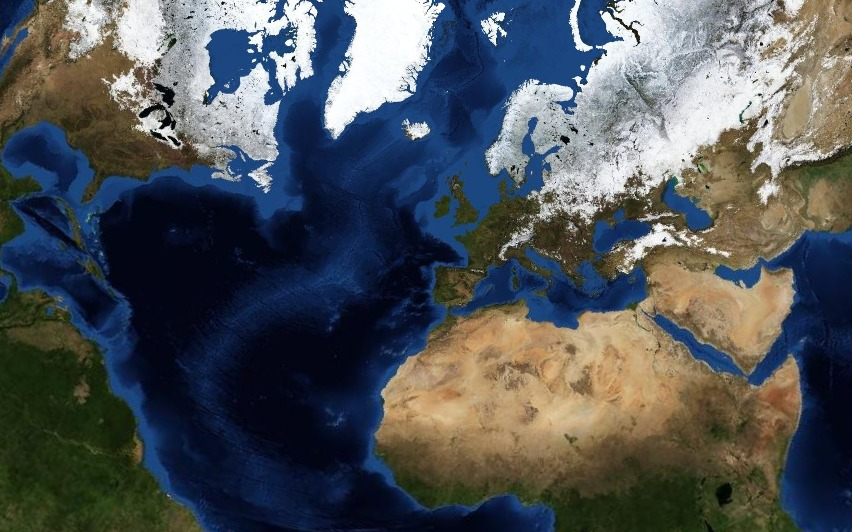
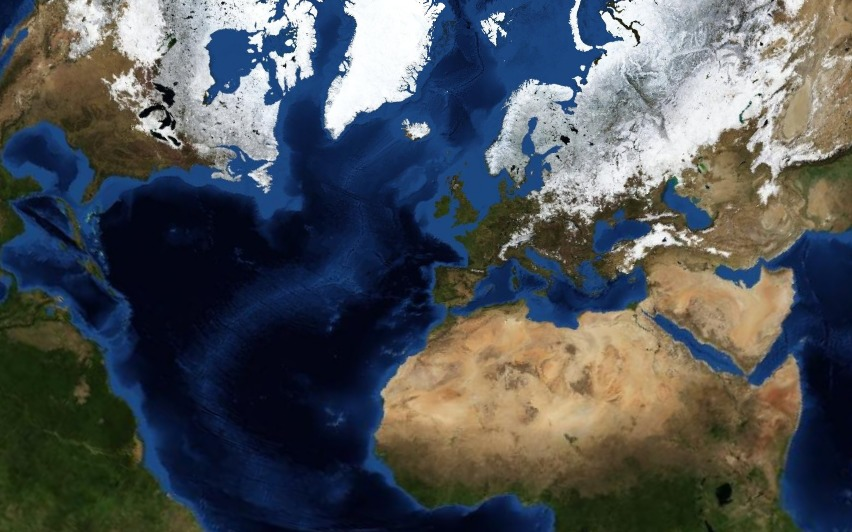
recreate the foldbeam-render tool using the new system
The rendering is now a lot faster and the samples look broadly the same(!)

diff --git a/src/foldbeam/tool/render.py b/src/foldbeam/tool/render.py
@@ -1,9 +1,15 @@
 import argparse
-import TileStache
-from foldbeam import core, graph, raster
+import logging
+import sys
+
+import cairo
+import httplib2
 from osgeo import gdal
 from osgeo.osr import SpatialReference
-import sys
+
+from foldbeam.renderer import TileFetcher, set_geo_transform
+
+logging.basicConfig(level=logging.WARNING)
 
 parser = argparse.ArgumentParser(description='Generate maps of the world from OpenStreetMaps data')
 parser.add_argument('-o', '--output', metavar='FILENAME', type=str, nargs='?',
@@ -39,53 +45,56 @@ def main(argv=None):
     run(parser.parse_args(argv))
 
 def run(args):
-    if args.cache_dir is None:
-        cache_config = { 'name': 'Test' }
-    else:
-        cache_config = { 'name': 'Disk', 'path': args.cache_dir }
-
-    config = TileStache.Config.buildConfiguration({
-        'cache': cache_config,
-        'layers': {
-            'osm': {
-                'provider': {
-                    'name': 'proxy', 
-                    'url': 'http://otile1.mqcdn.com/tiles/1.0.0/osm/{Z}/{X}/{Y}.png',
-                },
-            },
-            'aerial': {
-                'provider': {
-                    'name': 'proxy', 
-                    'url': 'http://oatile1.mqcdn.com/naip/{Z}/{X}/{Y}.jpg',
-                },
-            },
-        },
-    })
-
-    envelope_srs = SpatialReference()
+    srs = SpatialReference()
     if args.epsg is not None:
-        envelope_srs.ImportFromEPSG(args.epsg)
+        srs.ImportFromEPSG(args.epsg)
     elif args.proj is not None:
-        envelope_srs.ImportFromProj4(args.proj)
+        srs.ImportFromProj4(args.proj)
     else:
-        envelope_srs.ImportFromEPSG(4326) # default to WGS84 lat/lng
-    envelope = core.Envelope(args.left*args.units, args.right*args.units, args.top*args.units, args.bottom*args.units, envelope_srs)
+        srs.ImportFromEPSG(4326) # default to WGS84 lat/lng
+
+    left, right, top, bottom = (
+        args.left*args.units,
+        args.right*args.units,
+        args.top*args.units,
+        args.bottom*args.units
+    )
 
     if args.width is None and args.height is None:
         print('error: at least one of height or width must be set')
         sys.exit(1)
     elif args.height is None:
-        ew, eh = map(abs, envelope.offset())
+        ew, eh = (abs(right-left), abs(top-bottom))
         args.height = max(1, int(args.width * eh / ew))
     elif args.width is None:
-        ew, eh = map(abs, envelope.offset())
+        ew, eh = (abs(right-left), abs(top-bottom))
         args.width = max(1, int(args.height * ew / eh))
 
-    node = raster.TileStacheSource(config=config)
     size = (args.width, args.height)
-    output_pad = node.outputs['aerial' if args.aerial else 'osm']
-    output = output_pad(envelope=envelope, size=size)
-    output.write_tiff(args.output)
+
+    url_patterns = {
+        'osm': 'http://otile1.mqcdn.com/tiles/1.0.0/osm/{zoom}/{x}/{y}.jpg',
+        'aerial': 'http://oatile1.mqcdn.com/tiles/1.0.0/sat/{zoom}/{x}/{y}.jpg',
+    }
+
+    def url_fetcher(url):
+        http = httplib2.Http(args.cache_dir)
+        rep, content = http.request(url, 'GET')
+        if rep.status != 200:
+            raise foldbeam.renderer.URLFetchError(str(rep.status) + ' ' + rep.reason)
+        return content
+
+    renderer = TileFetcher(
+            url_pattern=url_patterns['aerial' if args.aerial else 'osm'],
+            url_fetcher=url_fetcher)
+
+    output_surface = cairo.ImageSurface(cairo.FORMAT_ARGB32, size[0], size[1])
+
+    context = cairo.Context(output_surface)
+    set_geo_transform(context, left, right, top, bottom, size[0], size[1])
+    renderer.render(context, spatial_reference=srs)
+
+    output_surface.write_to_png(args.output)
 
 if __name__ == '__main__':
     main()

diff --git a/setup.py b/setup.py
@@ -51,6 +51,7 @@ setup(name='foldbeam',
     entry_points={
         'console_scripts': [
             'foldbeam=foldbeam:main',
+            'foldbeam-render=foldbeam.tool.render:main',
         ]
     },
     test_suite='foldbeam.tests',

diff --git a/README.rst b/README.rst
@@ -11,22 +11,22 @@ After building with buildout, you should have the `bin/foldbeam-render` script. 
 ::
 
     # Generate a world map using equirectangular projection
-    $ bin/foldbeam-render --output world-equirectangular.tiff -w 1280 \
+    $ bin/foldbeam-render --output world-equirectangular.png -w 1280 \
         -l -180 -r 180 -t 84 -b -84
     # Generate a world map using mercator projection
-    $ bin/foldbeam-render --output world-mercator.tiff -w 1000 \
+    $ bin/foldbeam-render --output world-mercator.png -w 1000 \
         -l -20000000 -t 16000000 -r 20000000 -b -14000000 --epsg 3395
     # Generate the US National Atlas equal area projection
-    $ bin/foldbeam-render --output us.tiff -w 1280 \
+    $ bin/foldbeam-render --output us.png -w 1280 \
         -l -3000000 -t 2500000 -r 3600000 -b -4700000 --epsg 2163
     # Generate a UK OS national grid map with 1 pixel == 1 km
-    $ bin/foldbeam-render --output uk.tiff -w 700 \
+    $ bin/foldbeam-render --output uk.png -w 700 \
         -l 0 -r 700000 -t 1300000 -b 0 --epsg 27700
     # Generate a UK OS national grid map centred on Big Ben
-    $ bin/foldbeam-render --output bigben.tiff -w 800 \
+    $ bin/foldbeam-render --output bigben.png -w 800 \
         -l 530069 -t 179830 -r 530469 -b 179430 --epsg 27700
     # Generate a Lambert conformal conic projection
-    $ bin/foldbeam-render --output lambert-conformal-conic.tiff -w 1024 \
+    $ bin/foldbeam-render --output lambert-conformal-conic.png -w 1024 \
         -l -8000000 -r 8000000 -t 6000000 -b -4000000 --epsg 2062
 
 These examples (and those in the `sample-output/gen_samples.sh` file) generate the output displayed below. Data, imagery
